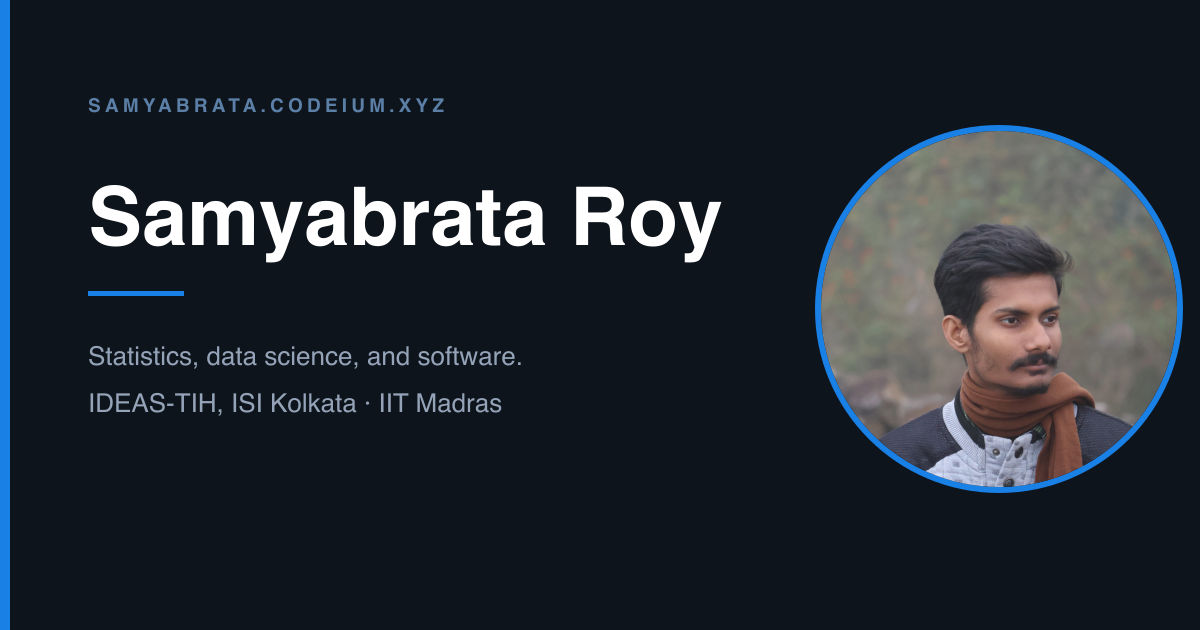
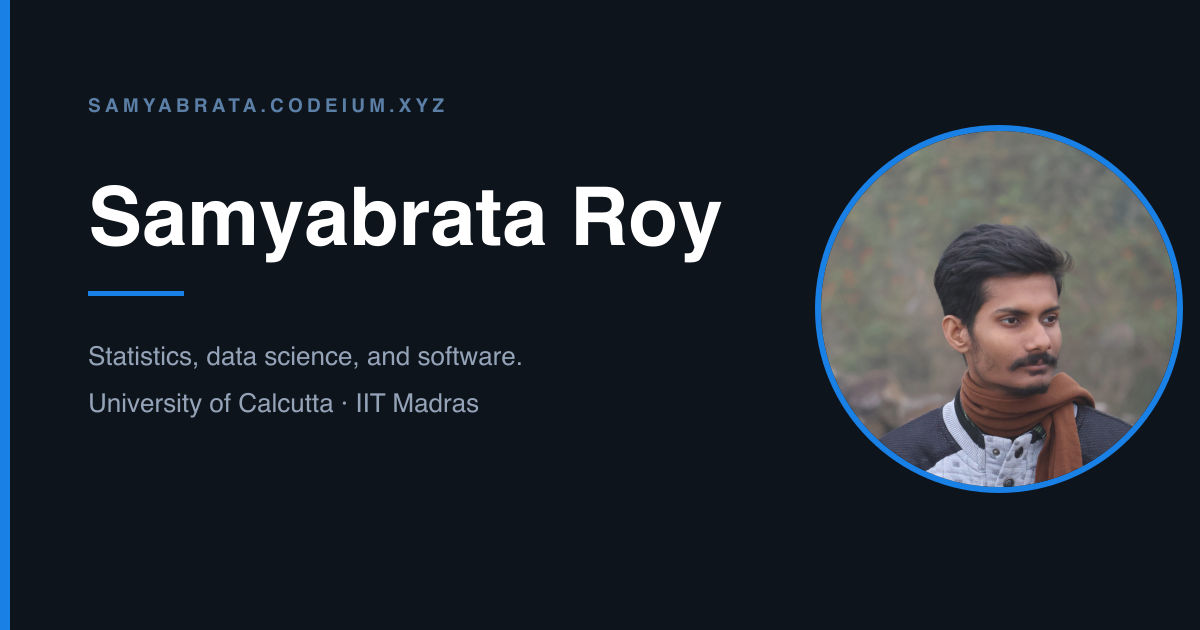
fix(seo): drop stale IDEAS-TIH role from link previews; fix about typos
The home page's meta, og: and twitter: descriptions still named the
Associate Software Developer role at IDEAS-TIH as current, so every shared
link (LinkedIn, WhatsApp, email) showed the old job. They now lead with the
MSc at the University of Calcutta and the BS at IIT Madras. The social card
image carried the same affiliation line and is regenerated to match.

Also fixes "pursing" -> "pursuing" and "prior this I was" -> "Before this,
I was" in the profile about text, which feeds both the home hero and the
JSON-LD Person description.

Changed region(s): [[0.0617, 0.6032, 0.4317, 0.6635]]

diff --git a/src/router/routes.ts b/src/router/routes.ts
@@ -36,7 +36,7 @@ export const routeMetadata: RouteMetadata[] = [
     name: 'Home',
     title: null,
     description:
-      'Samyabrata Roy — statistics and data science. Associate Software Developer at IDEAS-TIH, ISI Kolkata, and BS Data Science student at IIT Madras.',
+      'Samyabrata Roy — statistics and data science. MSc Statistics student at the University of Calcutta and BS Data Science student at IIT Madras.',
   },
   {
     path: '/projects-publications',
